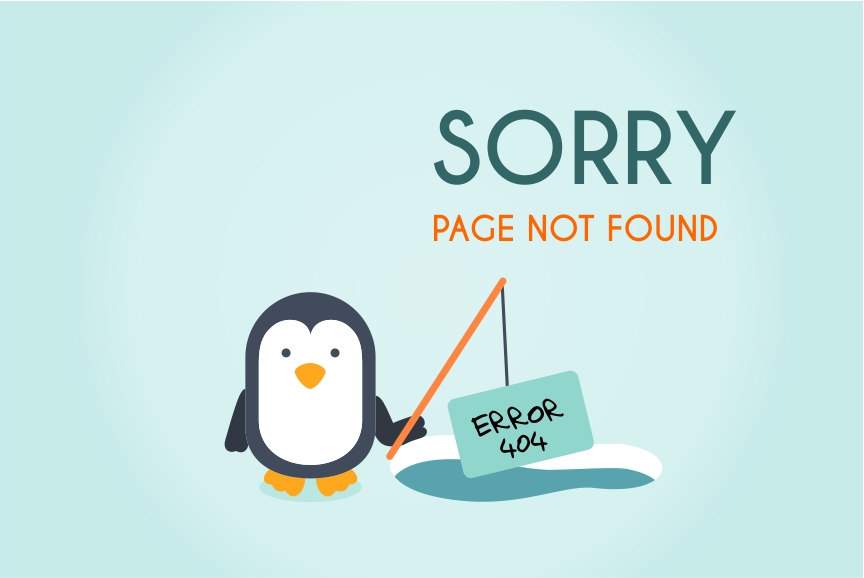
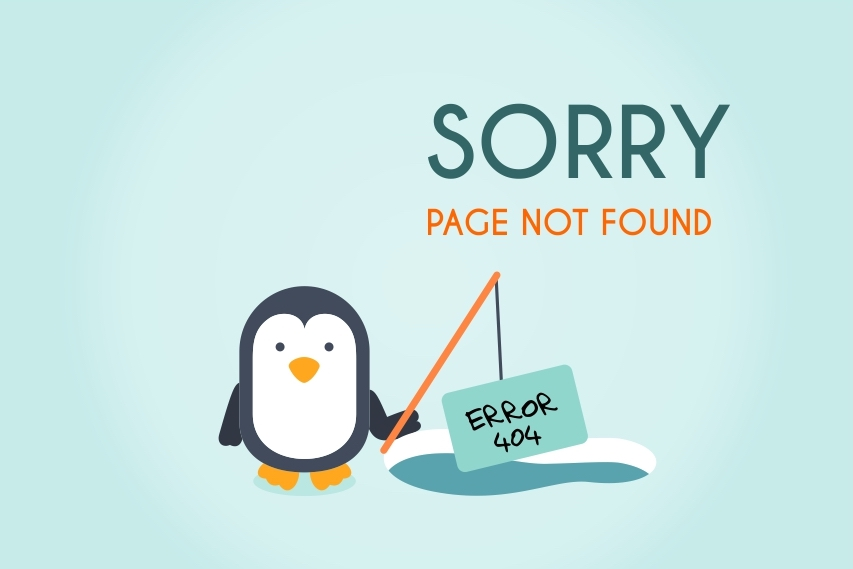
update default error page

diff --git a/src/main/resources/public/error/404.html b/src/main/resources/public/error/404.html
@@ -3,8 +3,19 @@
 <head>
     <meta charset="UTF-8">
     <title>error</title>
+    <style>
+        body {
+            /*background: url(404.jpg) no-repeat;*/
+            /*height: 100%;*/
+            /*width: 100%;*/
+            /*overflow: hidden;*/
+            /*background-size: cover;*/
+            background-color: #c7ebea;
+            text-align: center;
+        }
+    </style>
 </head>
 <body>
-    <img src="./404.jpg">
+    <img src="404.jpg">
 </body>
 </html>

diff --git a/src/main/resources/public/error/500.html b/src/main/resources/public/error/500.html
@@ -3,6 +3,17 @@
 <head>
     <meta charset="UTF-8">
     <title>error</title>
+    <style>
+        body {
+            /*background: url(500.PNG) no-repeat;*/
+            /*height: 100%;*/
+            /*width: 100%;*/
+            /*overflow: hidden;*/
+            /*background-size: cover;*/
+            background-color: #daefe9;
+            text-align: center;
+        }
+    </style>
 </head>
 <body>
     <img src="500.PNG">
